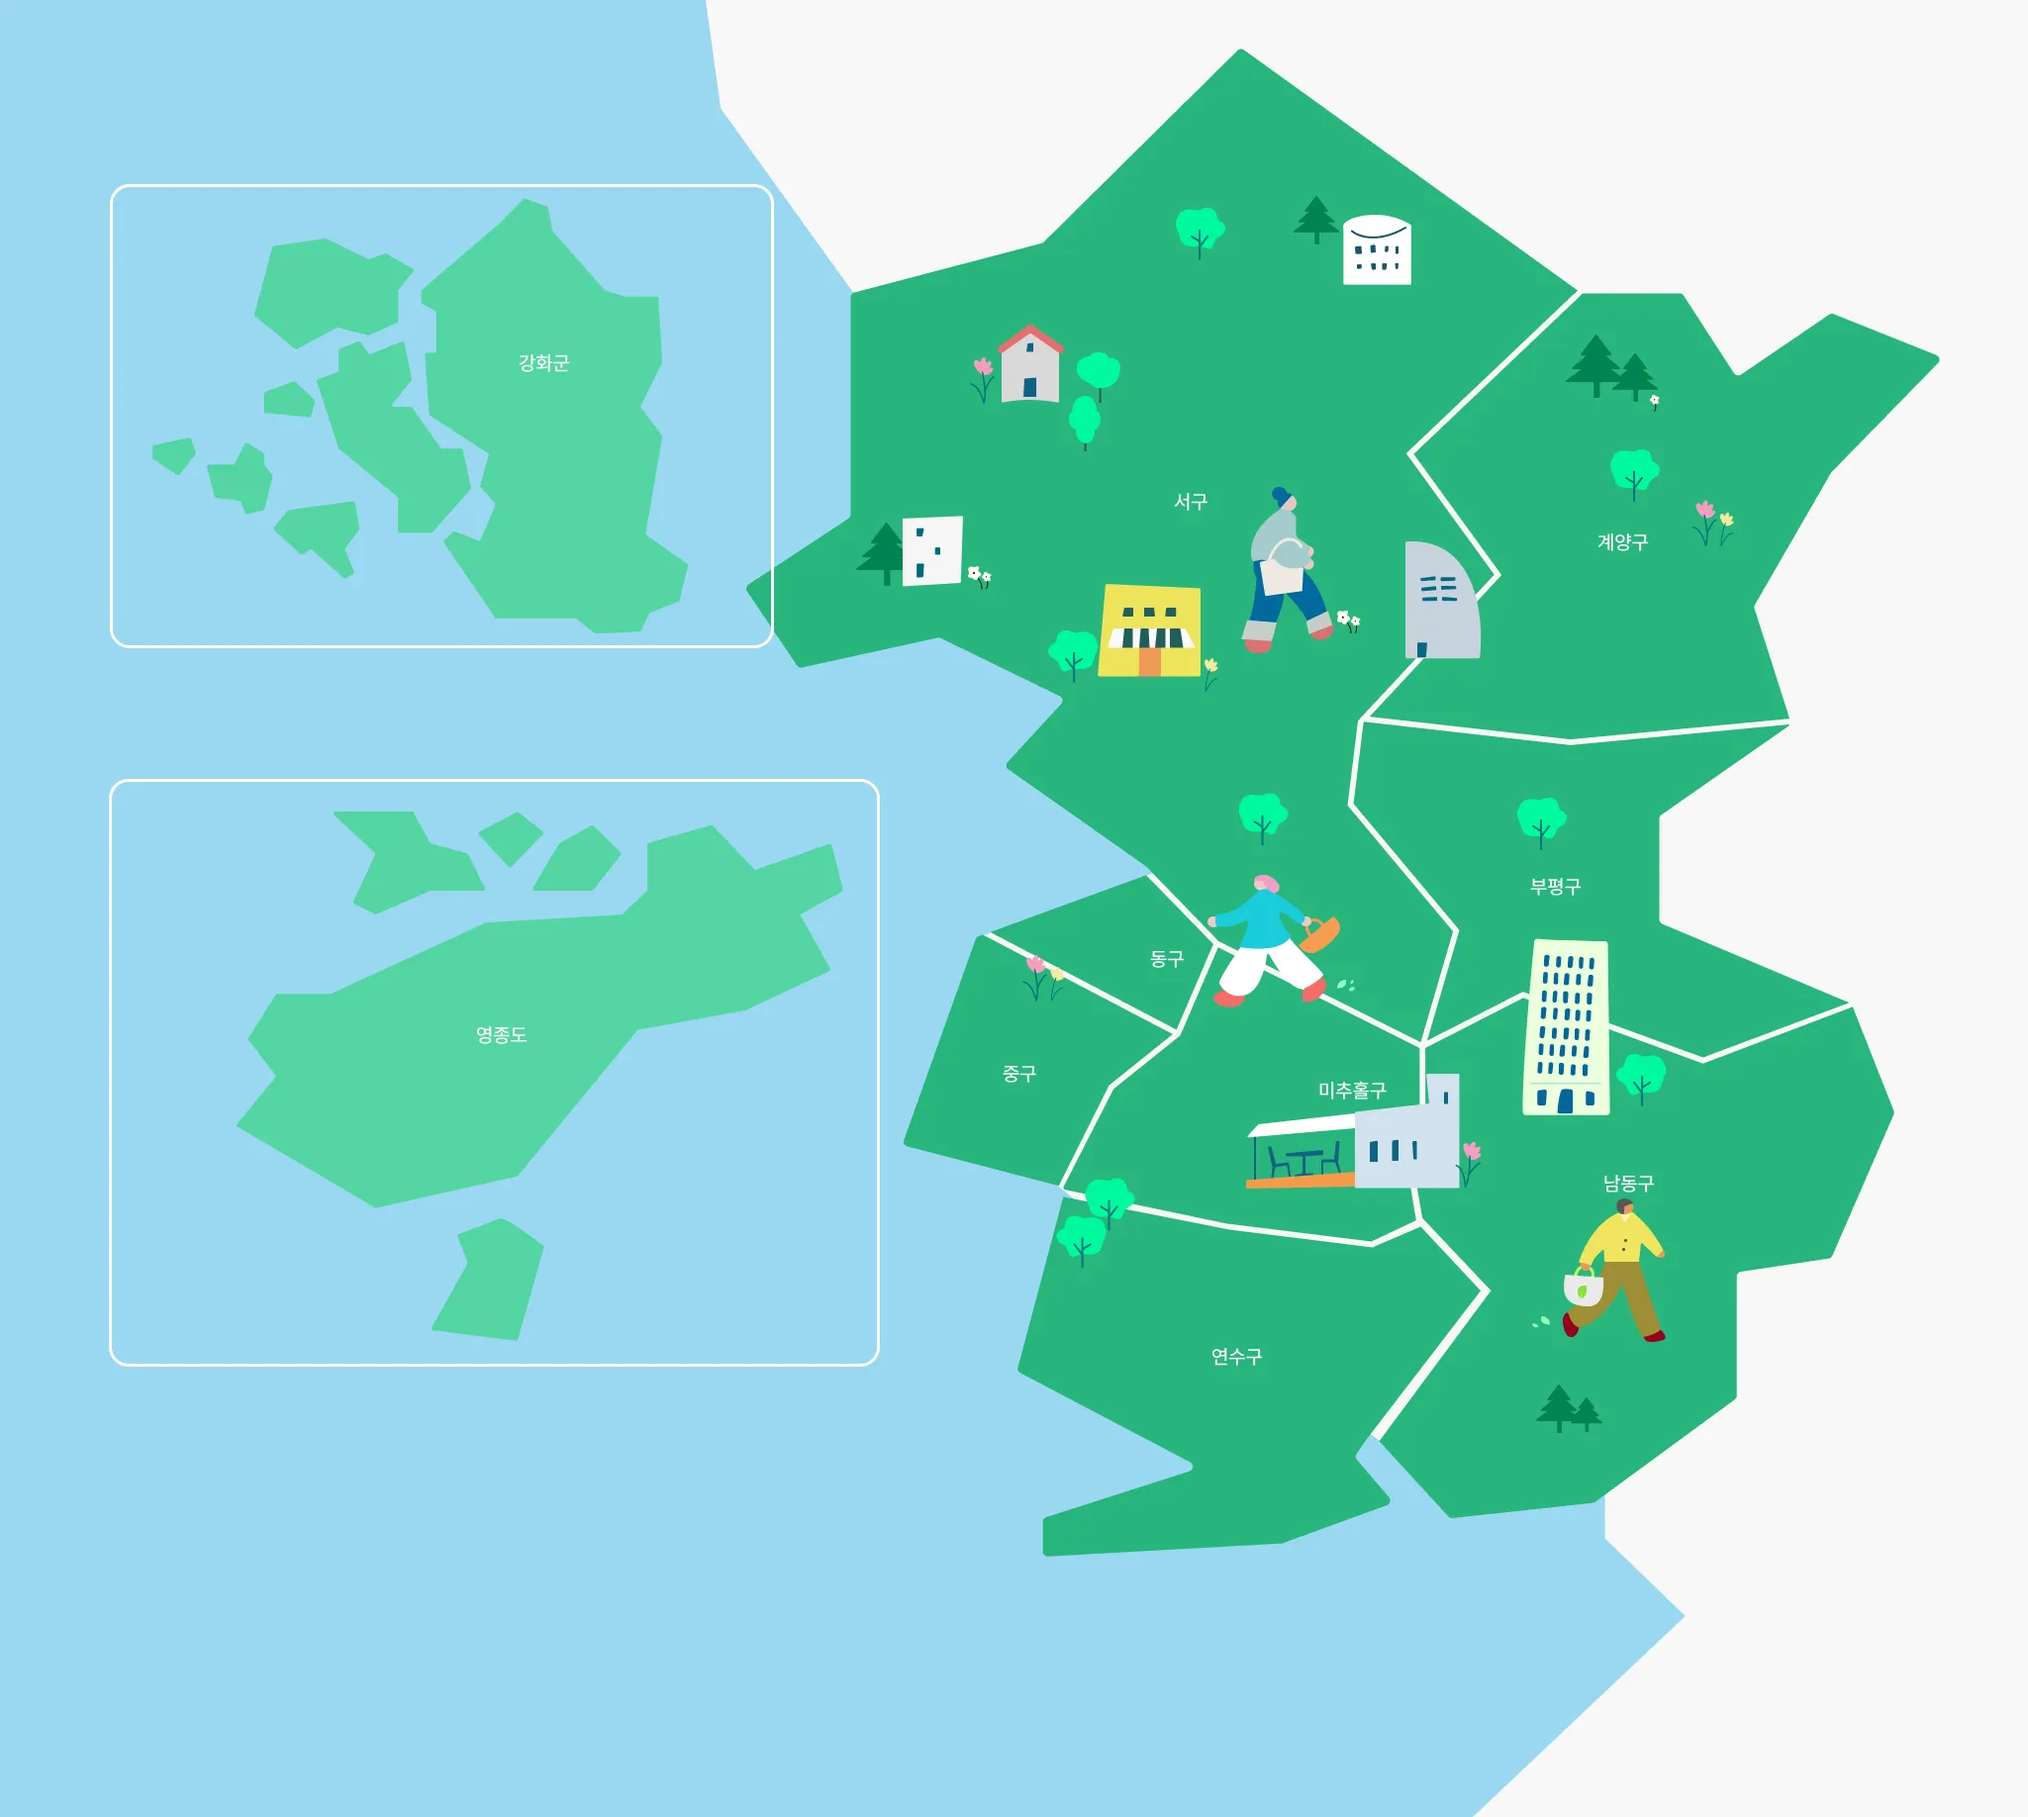
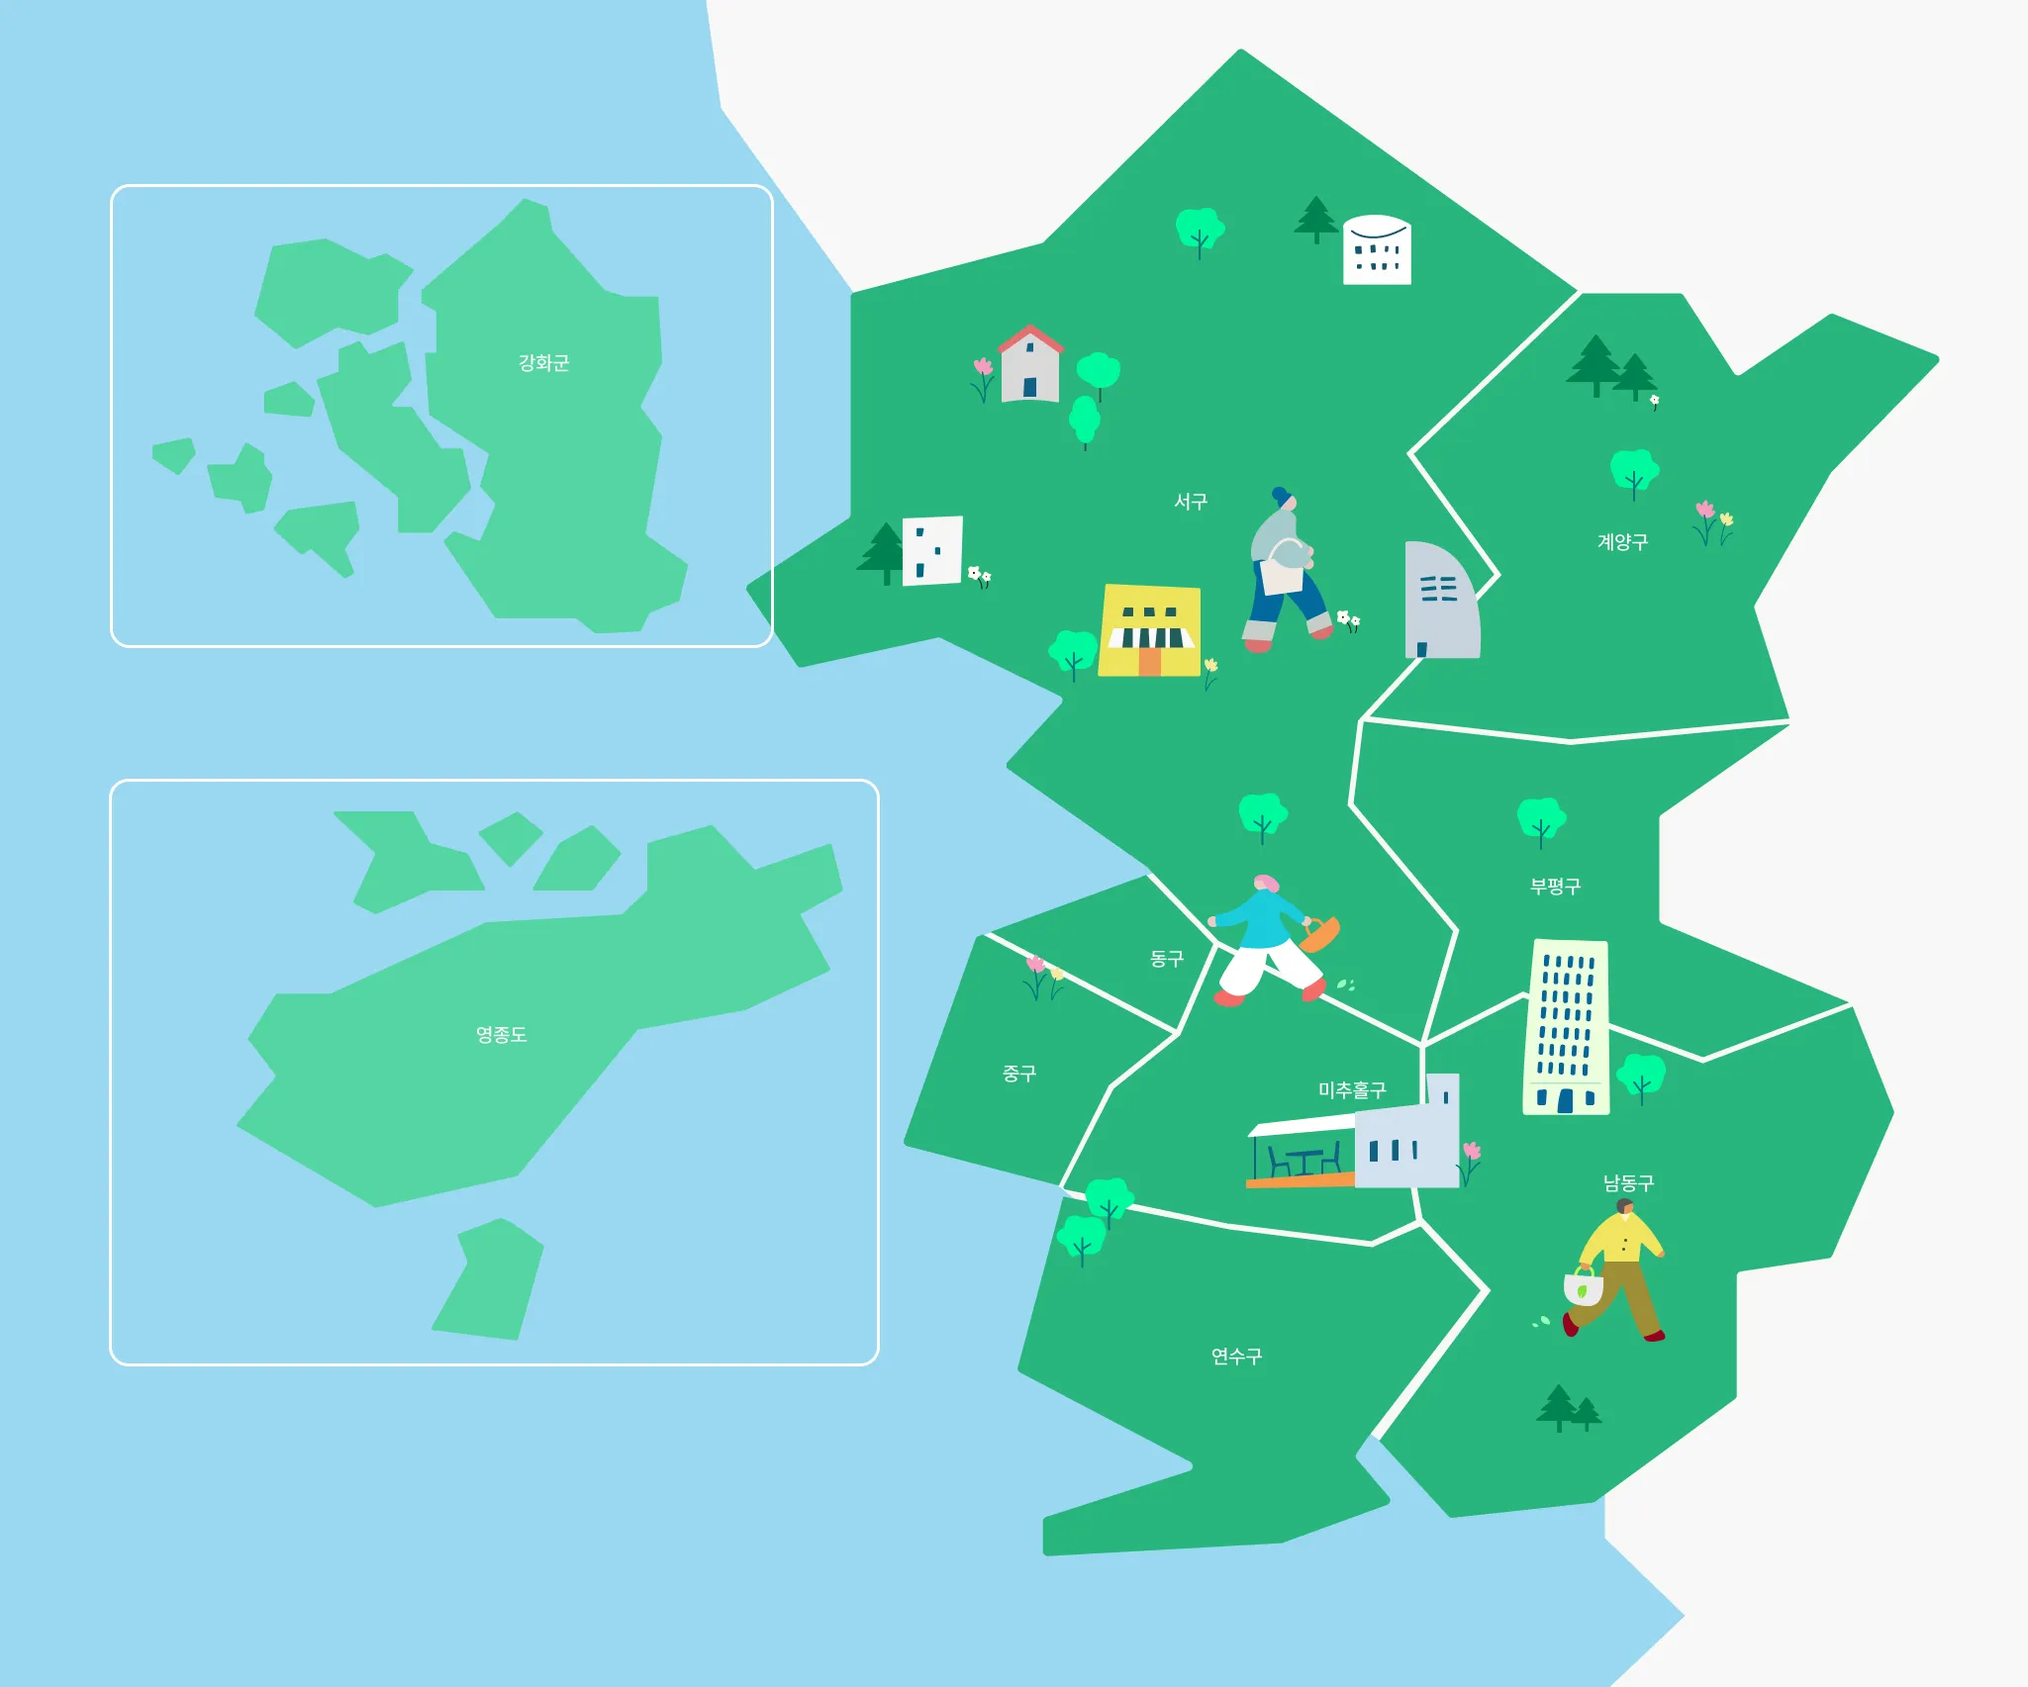
edit file
- map 핀위치 조정
- mixin tumblerbody -> actionbody로 수정
- action 페이지 tumblerbody 변경

diff --git a/assets/scss/pages/_map.scss b/assets/scss/pages/_map.scss
@@ -3,19 +3,20 @@
 .map {
     width: 100%;
     height: 100%;
-    // overflow-x: hidden;
+    // ==========================
+    overflow-x: auto;
+    overflow-y: hidden;
+    // ============================
 
     &__conts-wrap {
         padding: u.$padding-100 0 u.$padding-160;
         background-color: u.$neutral-50;
-        border-top-left-radius: u.rem(200);
-        border-top-right-radius: u.rem(200);
+        // @include u.borderTopRadius();
         width: 100%;
         height: 100%;
         z-index: 1;
         position: relative;
-        @include u.borderTopRadius();
-        margin-top: u.rem(-200);
+        // margin-top: u.rem(-200);
 
         @include u.responsive('tablet') {
             margin-top: 0;
@@ -23,42 +24,88 @@
     }
 
     &__img-wrap {
+        margin: 0 auto;
+        width: u.rem(1900);
+        height: 100%;
+        // width: fit-content;
+        // height: fit-content;
         position: relative;
+        // ======================
+        overflow-x: auto;
+        overflow-y: hidden;
+        // ======================
 
         @include u.responsive('tablet') {
-            // overflow-x: auto;
+            overflow-x: auto;
             overflow-y: hidden;
         }
 
         .pin-img {
+            // ======================
             position: absolute;
+            width: u.rem(1920);
+            // ======================
             top: 0;
             left: 0;
             width: 100%;
-            height: 100%;
+            // height: 100%;
             z-index: 10;
         }
 
         .pin1 {
             position: absolute;
-            top: 50px;
-            left: 100px;
+            top: 10vh;
+            right: u.rem(580);
+        }
+
+
+        .pin2 {
+            position: absolute;
+            top: u.rem(410);
+            right: u.rem(150);
+        }
+
+        .pin3 {
+            position: absolute;
+            top: u.rem(850);
+            right: u.rem(220);
+        }
+
+        .pin4 {
+            position: absolute;
+            top: u.rem(910);
+            right: u.rem(350);
+        }
+
+        .pin5 {
+            position: absolute;
+            top: u.rem(950);
+            right: u.rem(720);
+        }
+
+        .pin6 {
+            position: absolute;
+            top: u.rem(1100);
+            right: u.rem(550);
         }
     }
 
 
     &__img {
-        img {
-            height: 100%;
-            width: 100%;
-            @include u.img();
 
-            @include u.responsive('tablet') {
-                height: auto;
-                width: auto;
-                max-width: none;
-                object-fit: none;
-            }
+        img {
+
+            height: 100%;
+            // width: 100%;
+            @include u.img();
+            height: auto;
+            width: auto;
+            // width: fit-content;
+            // height: fit-content;
+            max-width: none;
+            object-fit: none;
+
+            @include u.responsive('tablet') {}
         }
     }
 

diff --git a/assets/scss/pages/_action.scss b/assets/scss/pages/_action.scss
@@ -8,7 +8,7 @@
 
 .action__notice {
     text-align: center;
-    @include u.tumblerBody01($color: u.$neutral-500);
+    @include u.actionBody01($color: u.$neutral-500);
     padding: u.$padding-10;
 
 
@@ -29,7 +29,7 @@
 
     &__btn {
         @include u.btnFlex(center, center);
-        @include u.tumblerBody01($weight: 500, $size: u.$font-22, $color: u.$neutral-700);
+        @include u.actionBody01($weight: 500, $size: u.$font-22, $color: u.$neutral-700);
         padding: u.rem(10) u.rem(30);
         border-radius: u.rem(50);
         border: none;
@@ -44,7 +44,7 @@
         }
 
         @include u.responsive(medium) {
-            @include u.tumblerBody01($weight: 500,
+            @include u.actionBody01($weight: 500,
                 $size: u.$font-18,
                 $color: u.$neutral-700);
             padding: u.rem(10) u.rem(20);
@@ -163,10 +163,10 @@
 
 
     &__brand {
-        @include u.tumblerBody01($weight: 600, $color: u.$neutral-900, $size: u.$font-24);
+        @include u.actionBody01($weight: 600, $color: u.$neutral-900, $size: u.$font-24);
 
         @include u.responsive(tablet) {
-            @include u.tumblerBody01($weight: 600, $color: u.$neutral-900, $size: u.$font-22);
+            @include u.actionBody01($weight: 600, $color: u.$neutral-900, $size: u.$font-22);
         }
 
         @include u.responsive(medium) {
@@ -183,10 +183,10 @@
     }
 
     &__benefit {
-        @include u.tumblerBody01($weight: 400, $color: u.$neutral-800, $size: u.$font-22);
+        @include u.actionBody01($weight: 400, $color: u.$neutral-800, $size: u.$font-22);
 
         @include u.responsive(tablet) {
-            @include u.tumblerBody01($weight: 400, $color: u.$neutral-800, $size: u.$font-20);
+            @include u.actionBody01($weight: 400, $color: u.$neutral-800, $size: u.$font-20);
         }
 
         @include u.responsive(medium) {

diff --git a/assets/scss/pages/_main.scss b/assets/scss/pages/_main.scss
@@ -12,7 +12,7 @@
         @include u.bgImg();
         position: relative;
         // height: 100vh;
-        width: 100%;
+        // width: 100%;
         top: 0;
         left: 0;
 
@@ -37,30 +37,32 @@
         }
     }
 
+    // .hero__img01,
+    // .hero__img02 {
+    //     width: min(80vw, 900px);
+    // }
+
     // hero 'seeking' 텍스트 이미지
     &__img01 {
-        width: 100%;
-        max-width: u.rem(550);
         position: absolute;
         left: 50%;
         top: 28%;
         transform: translate(-50%, -50%);
         z-index: 0;
 
-        img {
-            width: 100%;
-        }
-
         @include u.responsive('medium') {
             top: 40%;
+        }
+
+        img {
+            display: block;
+            max-width: 100%;
         }
 
     }
 
     // hero 'zeroway' 텍스트 이미지
     &__img02 {
-        width: 100%;
-        max-width: u.rem(825);
         position: absolute;
         left: 50%;
         top: 80%;
@@ -68,7 +70,8 @@
         z-index: 2;
 
         img {
-            width: 100%;
+            display: block;
+            max-width: 100%;
         }
 
         @include u.responsive('medium') {
@@ -89,7 +92,7 @@
         z-index: 1;
 
         img {
-            width: 100%;
+            // width: 100%;
         }
 
         @include u.responsive('tablet') {

diff --git a/map.html b/map.html
@@ -69,8 +69,8 @@
         <section class="map">
             <div class="map__img-wrap">
                 <picture class="map__img">
-                    <source srcset="./assets/img/map-mobile.webp" media="(max-width: 480px)">
-                    <source srcset="./assets/img/map-tablet.webp" media="(max-width: 1024px)">
+                    <source srcset="./assets/img/map-mobile02.webp" media="(max-width: 480px)">
+                    <source srcset="./assets/img/map-tablet02.webp" media="(max-width: 1024px)">
                     <img src="./assets/img/map-pc02.webp" alt="지도 이미지">
                 </picture>
                 <button class="btn btn--blackLine map__notice">핀을 터치해 더 많은 정보를 알아보세요!</button>
@@ -90,7 +90,7 @@
                 </div>
             </div>
 
-            <div class="map__conts-wrap">
+            <div aclass="map__conts-wrap">
                 <div class="container">
                     <div class="map__title-wrap">
                         <h2 class="map__title">ZeroMap</h2>

diff --git a/assets/scss/utils/_mixin.scss b/assets/scss/utils/_mixin.scss
@@ -369,8 +369,8 @@
     }
 }
 
-// tumbler mixin ================================
-@mixin tumblerBody01 ($size: v.$font-20, $weight: 300, $color: v.$neutral-800, $font-family: 'Pretendard') {
+// action mixin ================================
+@mixin actionBody01 ($size: v.$font-20, $weight: 400, $color: v.$neutral-800, $font-family: 'Pretendard') {
     font-size: $size;
     font-weight: $weight;
     color: $color;

diff --git a/assets/scss/pages/_about.scss b/assets/scss/pages/_about.scss
@@ -113,7 +113,7 @@
     }
 
     &__card-desc {
-        @include u.tumblerBody01($weight: 400);
+        @include u.actionBody01($weight: 400);
         opacity: 0;
         height: 0;
         overflow: hidden;
